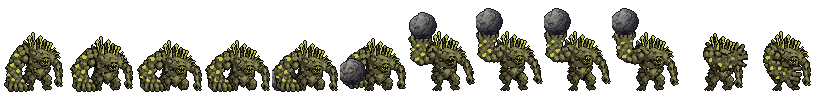
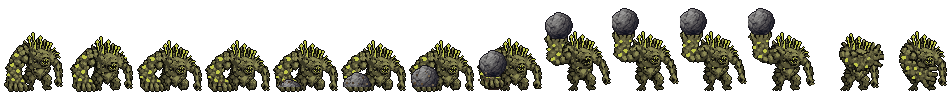
Brute throw: the stone is torn out of the ground (revealed row by row at the ground line), hole and dirt, 14 frames, release on frame 12
Claude-Session: https://claude.ai/code/session_01Jpd5tdDJTR7BVueAYV1KDM

diff --git a/ArtSource/brute_spritecook_export.py b/ArtSource/brute_spritecook_export.py
@@ -4,7 +4,7 @@
 # Then: python3 ArtSource/export_mutant_walk.py blight_brute ArtSource/mutants_anim/brute ; python3 ArtSource/export_mutant_attacks.py
 import os, json
 import numpy as np
-from PIL import Image
+from PIL import Image, ImageDraw
 HERE = os.path.dirname(os.path.abspath(__file__)); SC = os.path.join(HERE, "mutants_anim", "brute_spritecook"); OUT = os.path.join(HERE, "mutants_anim", "brute")
 def load(prefix, n): return [Image.open(os.path.join(SC, f"{prefix}{i}.png")).convert("RGBA") for i in range(n)]
 def lowest(frames): return max(int(np.where(np.array(f)[..., 3].any(1))[0].max()) for f in frames)
@@ -20,34 +20,40 @@ ms = [120, 110, 110, 120, 130, 170, 60, 130, 170, 150, 130, 110]                
 meta = json.load(open(os.path.join(OUT, "brute_attacks.json")))
 meta["blight_brute"]["slam"] = {"frame": [slam[0].width, slam[0].height], "ms": ms, "travel": [0.0] * len(slam)}
 json.dump(meta, open(os.path.join(OUT, "brute_attacks.json"), "w"), indent=1)
-# throw: the SpriteCook pantomime (empty hand) with the rock BAKED into the frames where the big hand is raised (6-9), so it flips with the sprite; 24 empty rows added on top for it. The rock leaves on frame 10.
+# throw: the SpriteCook pantomime (empty hand). The stone is torn OUT OF THE GROUND (Yan: it "just spawns there"): it rises behind the big fist with everything under the ground line cut away, so it is revealed row by
+# row as he pulls; a hole, flung dirt and pebbles at the spot; extra pull frames (base frames 3 and 4 repeated) make it slow and heavy; then it sits on the fist (frame 5) and rides the raised palm (6-9). 24 empty rows on top for the raised stone.
 tp = os.path.join(HERE, "mutants_anim", "brute_spritecook")
 thr = [Image.open(os.path.join(tp, f"throw_frame{i}.png")).convert("RGBA") for i in range(12)]
-PAD = 24; _rs = Image.open(os.path.join(OUT, "fx", "brute_boulder_strip.png")).convert("RGBA"); rock = _rs.crop((0, 0, _rs.width // 6, _rs.height)); HAND = {6: (14, 9), 7: (12, 5), 8: (12, 5), 9: (12, 5)}     # the top of the raised open hand (measured per frame)
+PAD = 24; _rs = Image.open(os.path.join(OUT, "fx", "brute_boulder_strip.png")).convert("RGBA"); rock = _rs.crop((0, 0, _rs.width // 6, _rs.height)); RW, RH = rock.size
+HAND = {6: (14, 9), 7: (12, 5), 8: (12, 5), 9: (12, 5)}                    # the top of the raised open hand, per base frame (measured)
 DIRT = [(96, 74, 50), (70, 56, 42), (120, 104, 80), (62, 58, 54)]
-def debris(g, i, fx, fy):
-    """dirt and pebbles thrown up where the big fist grips the ground (frames 3-5): rising and spreading, in ground colours"""
-    rng = np.random.RandomState(40 + i); n = 4 + 3 * (i - 2)
+FIST = (11, 60); RX = 17; GY = 63 + PAD                                             # where the big fist grips the ground, and the ground line the stone is cut at (frame rows + PAD)
+SEQ = [(0, None), (1, None), (2, None), (3, 0.12), (3, 0.32), (4, 0.55), (4, 0.78), (5, 1.0), (6, None), (7, None), (8, None), (9, None), (10, None), (11, None)]       # (base frame, how far out of the ground)
+msT = [90, 90, 90, 80, 80, 80, 80, 100, 90, 110, 140, 170, 80, 220]; REL = (30, 6 + PAD); CONTACT_POS = 12
+def debris(g, seed, r):
+    rng = np.random.RandomState(60 + seed); n = 5 + int(10 * r)
     for k in range(n):
-        up = (i - 2) * 3.0 + rng.uniform(0, 5); x = int(fx + rng.uniform(-9, 9) * (0.6 + 0.3 * (i - 2))); y = int(fy - up - rng.uniform(0, 4) + PAD); s_ = 1 + int(rng.rand() < 0.4); col = DIRT[k % 4]
-        for dx in range(s_):
-            for dy in range(s_):
+        up = rng.uniform(0, 4 + 14 * r); x = int(RX + rng.uniform(-11, 11) * (0.5 + r)); y = int(GY - 2 - up); sz = 1 + int(rng.rand() < 0.45); col = DIRT[k % 4]
+        for dx in range(sz):
+            for dy in range(sz):
                 if 0 <= x + dx < g.width and 0 <= y + dy < g.height: g.putpixel((x + dx, y + dy), (*col, 255))
-FIST = (11, 60)                                                          # where the big fist grips the ground in frames 3-5 (px in the original frame)
-frames = []
-for i, f in enumerate(thr):
-    g = Image.new("RGBA", (f.width, f.height + PAD), (0, 0, 0, 0)); g.alpha_composite(f, (0, PAD))
-    if i == 4:                                                           # the stone's top shows behind the fist, half buried
-        under = Image.new("RGBA", g.size, (0, 0, 0, 0)); under.alpha_composite(rock, (FIST[0] - rock.width // 2, FIST[1] + PAD - 6 - rock.height // 2)); under.alpha_composite(g); g = under
-    if i == 5: g.alpha_composite(rock, (FIST[0] - rock.width // 2 + 1, FIST[1] + PAD - 12 - rock.height // 2))     # lifted on the fist
-    if i in (3, 4, 5): debris(g, i, *FIST)
-    if i in HAND: hx, hy = HAND[i]; g.alpha_composite(rock, (hx + 1 - rock.width // 2, hy + PAD - 7 - rock.height // 2))
-    frames.append(g)
-low2 = max(int(np.where(np.array(f)[..., 3].any(1))[0].max()) for f in thr) + PAD; frames = [f.crop((0, 0, f.width, low2 + 1)) for f in frames]
+def hole(g):
+    d = ImageDraw.Draw(g); d.ellipse([RX - 9, GY - 2, RX + 9, GY + 2], fill=(46, 36, 28, 255)); d.ellipse([RX - 7, GY - 1, RX + 7, GY + 1], fill=(28, 22, 18, 255))
+frames = []; muz = []
+for pos, (bi, r) in enumerate(SEQ):
+    f = thr[bi]; g = Image.new("RGBA", (f.width, f.height + PAD), (0, 0, 0, 0)); g.alpha_composite(f, (0, PAD))
+    if r is not None:
+        under = Image.new("RGBA", g.size, (0, 0, 0, 0)); hole(under)
+        top = int((GY - 1) + (1.0 - r) * (RH + 4) - RH) - (8 if r >= 1.0 else 0)                                   # top row of the stone: from fully under the ground (r 0) up to lifted clear of it (r 1)
+        layer = Image.new("RGBA", g.size, (0, 0, 0, 0)); layer.alpha_composite(rock, (RX - RW // 2, top))
+        if r < 1.0: la = np.array(layer); la[GY:, :, 3] = 0; layer = Image.fromarray(la)                              # everything under the ground line is cut: the stone is revealed row by row as it rises
+        under.alpha_composite(g); under.alpha_composite(layer); g = under                                           # hole under him, the stone in front
+        debris(g, pos, r)
+    if bi in HAND: hx, hy = HAND[bi]; g.alpha_composite(rock, (hx + 1 - RW // 2, hy + PAD - 7 - RH // 2))
+    frames.append(g); muz.append(list((HAND[bi][0] + 1, HAND[bi][1] + PAD - 7)) if bi in HAND else list(REL) if bi >= 10 else [FIST[0], GY])
+low2 = max(int(np.where(np.array(f)[..., 3].any(1))[0].max()) for f in frames); frames = [f.crop((0, 0, f.width, low2 + 1)) for f in frames]
 strip(frames, os.path.join(OUT, "blight_brute_throw_strip.png"))
-msT = [90, 90, 90, 90, 90, 100, 90, 110, 140, 170, 80, 220]; REL = (30, 6 + PAD)                       # the rock leaves from above the head, in front of the raised arm
-muz = [list(HAND.get(i, (32, 20 + PAD)) if i not in HAND else (HAND[i][0] + 1, HAND[i][1] + PAD - 7)) for i in range(12)]; muz[10] = list(REL); muz[11] = list(REL)
-meta["blight_brute"]["throw"] = {"frame": [frames[0].width, frames[0].height], "ms": msT, "travel": [0.0] * 12, "muzzle": muz}
+meta["blight_brute"]["throw"] = {"frame": [frames[0].width, frames[0].height], "ms": msT, "travel": [0.0] * len(frames), "muzzle": muz}
 json.dump(meta, open(os.path.join(OUT, "brute_attacks.json"), "w"), indent=1)
-print("throw", frames[0].size, "contact ms", sum(msT[:10]), "total", sum(msT))
+print("throw", frames[0].size, len(frames), "frames, contact ms", sum(msT[:CONTACT_POS]), "total", sum(msT))
 print("walk", walk[0].size, "slam", slam[0].size, "lowest", low, "contact ms", sum(ms[:6]), "total", sum(ms))

diff --git a/Assets/Scripts/GameData/MutantAttackData.cs b/Assets/Scripts/GameData/MutantAttackData.cs
@@ -36,7 +36,7 @@ namespace GameData
             {
                 ["slam"] = new AttackAnim { Frames = 12, W = 68, H = 68, Contact = 6, ContactMs = 760, TotalMs = 1510, PivotY = 0.23529f, Ms = new[] { 120, 110, 110, 120, 130, 170, 60, 130, 170, 150, 130, 110 }, Travel = new[] { 0.0f, 0.0f, 0.0f, 0.0f, 0.0f, 0.0f, 0.0f, 0.0f, 0.0f, 0.0f, 0.0f, 0.0f } },
                 ["swipe"] = new AttackAnim { Frames = 8, W = 108, H = 88, Contact = 4, ContactMs = 480, TotalMs = 1000, PivotY = 0.18182f, Ms = new[] { 100, 280, 50, 50, 70, 130, 100, 220 }, Travel = new[] { 0.0f, 0.0f, 0.0f, 0.0f, 0.0f, 0.0f, 0.0f, 0.0f } },
-                ["throw"] = new AttackAnim { Frames = 12, W = 68, H = 92, Contact = 10, ContactMs = 1060, TotalMs = 1360, PivotY = 0.17391f, Ms = new[] { 90, 90, 90, 90, 90, 100, 90, 110, 140, 170, 80, 220 }, Travel = new[] { 0.0f, 0.0f, 0.0f, 0.0f, 0.0f, 0.0f, 0.0f, 0.0f, 0.0f, 0.0f, 0.0f, 0.0f }, MuzzleX = new[] { 32, 32, 32, 32, 32, 32, 15, 13, 13, 13, 30, 30 }, MuzzleY = new[] { 44, 44, 44, 44, 44, 44, 26, 22, 22, 22, 30, 30 } },
+                ["throw"] = new AttackAnim { Frames = 14, W = 68, H = 92, Contact = 12, ContactMs = 1200, TotalMs = 1500, PivotY = 0.17391f, Ms = new[] { 90, 90, 90, 80, 80, 80, 80, 100, 90, 110, 140, 170, 80, 220 }, Travel = new[] { 0.0f, 0.0f, 0.0f, 0.0f, 0.0f, 0.0f, 0.0f, 0.0f, 0.0f, 0.0f, 0.0f, 0.0f, 0.0f, 0.0f }, MuzzleX = new[] { 11, 11, 11, 11, 11, 11, 11, 11, 15, 13, 13, 13, 30, 30 }, MuzzleY = new[] { 87, 87, 87, 87, 87, 87, 87, 87, 26, 22, 22, 22, 30, 30 } },
             },
         };
     }

diff --git a/Tools/compile_check/test/Program.cs b/Tools/compile_check/test/Program.cs
@@ -2230,7 +2230,7 @@ static class Program {
     nb = MutantAttack.NetState(hostB, UnityEngine.Time.time); var mirB = new Mutant("BlightBrute", hostB.X, hostB.Y, MutantDatabase.Get("tier4", "BlightBrute")); EncounterState.Enemies.Add(mirB);
     MutantAttack.Mirror(mirB, nb.code, nb.t20 * 0.02f, nb.d1, nb.d2, UnityEngine.Time.time);
     Check(nb.code == 6 && MutantAttack.KindOf(mirB) == "slam", $"co-op: a client's mirror plays the Brute's slam (code {nb.code})");
-    var bt = GameData.MutantAttackData.Table["Blight Brute"]["throw"]; Check(bt.MuzzleX != null && bt.MuzzleX.Length == bt.Frames && bt.Contact == 10, "Blight Brute: the throw carries a release point per frame and releases on frame 10");
+    var bt = GameData.MutantAttackData.Table["Blight Brute"]["throw"]; Check(bt.MuzzleX != null && bt.MuzzleX.Length == bt.Frames && bt.Contact == 12, "Blight Brute: the throw carries a release point per frame and releases on frame 12");
     p.HealPermanent(5000); EncounterState.Enemies.Clear(); MutantAttack.Reset(); Rt.Reset(); p.X = px; p.Y = py;
     var fL = new Mutant("BlightBrute", px + 6, py, MutantDatabase.Get("tier4", "BlightBrute")); var fR = new Mutant("BlightBrute", px - 6, py, MutantDatabase.Get("tier4", "BlightBrute")); EncounterState.Enemies.Add(fL); EncounterState.Enemies.Add(fR); Rt.SetOffset(fL, 0f, 0f); Rt.SetOffset(fR, 0f, 0f); float nsL = 0f, nsR = 0f; float rxL = 0f, rxR = 0f; bool leftFaced = false, rightFaced = false;
     for (int i = 0; i < 1100; i++) {

diff --git a/ArtSource/export_mutant_attacks.py b/ArtSource/export_mutant_attacks.py
@@ -5,7 +5,7 @@ import json, os, shutil, numpy as np
 from PIL import Image
 HERE = os.path.dirname(os.path.abspath(__file__)); OUT = os.path.join(HERE, "..", "Assets", "Resources", "Sprites", "Mutants", "anim"); os.makedirs(OUT, exist_ok=True)
 SETS = {"veil_prowler": "veil_attacks", "pallid_prowler": "pallid_attacks", "dread_prowler": "dread_attacks", "blind_maw": "maw_attacks", "blight_brute": "brute"}
-CONTACT = {"veil_prowler": {"bite": 5, "bite2": 7, "pounce": 8}, "pallid_prowler": {"bite": 5, "bite2": 7}, "blind_maw": {"bite": 5, "bite2": 7, "pounce": 8}, "dread_prowler": {"bite": 5, "bite2": 5, "pounce": 8}, "blight_brute": {"slam": 6, "swipe": 4, "throw": 10}}
+CONTACT = {"veil_prowler": {"bite": 5, "bite2": 7, "pounce": 8}, "pallid_prowler": {"bite": 5, "bite2": 7}, "blind_maw": {"bite": 5, "bite2": 7, "pounce": 8}, "dread_prowler": {"bite": 5, "bite2": 5, "pounce": 8}, "blight_brute": {"slam": 6, "swipe": 4, "throw": 12}}
 table = {}
 for key, folder in SETS.items():
     d = os.path.join(HERE, "mutants_anim", folder); js = json.load(open(os.path.join(d, [f for f in os.listdir(d) if f.endswith(".json") and "attacks" in f][0])))[key]

diff --git a/ArtSource/WORK_LOG.md b/ArtSource/WORK_LOG.md
@@ -5888,3 +5888,4 @@ First test: the new Brute idle (`brute_poses/idle.png`, 59x60) imported at nativ
 **Boulder bigger (2026-11-13).** Yan: "the rock is too small, reads as a pebble, we need a boulder, at least 50% bigger". `brute_build.py`: the rock is now 26 px (was 16, +62 %): a lumpy faceted boulder in the Brute's olive/dark green with cracks and yellow flecks, 6 tumbling frames; the shatter (60x40, was 36x24) has bigger chunks, a dust burst and a ground shockwave ring (the view's pivot for it is now 8/40). The held rock in frames 6-9 is the same 26 px boulder, 24 empty rows on top of the throw strip (68x92), release point and contact (frame 10, 1060 ms) unchanged. Rebuild order: `brute_build.py` then `brute_spritecook_export.py` then the two exporters. NOT checked in Unity: how big 26 px reads on the real map.
 **Boulder redrawn as ground stone (2026-11-13).** Yan: "boulder looks like a fidget spinner and seems like it came from the brute itself not the ground". The old rock was a 3-lobed blob in the Brute's own olive with yellow flecks. Now (`brute_build.py rock_frames`): an irregular 9-corner polygon (flat faces, no lobes), grey-brown stone in three flat tones lit from the upper left, dark cracks that turn with it, dirt clinging to the underside, no yellow; the shatter chunks are the same stone, the dust tan. The throw strip now shows it COMING OUT OF THE GROUND (`brute_spritecook_export.py`): dirt and pebbles thrown up at the big fist's grip (frames 3-5), the stone's top behind the fist (4), lifted on the fist (5), then on the raised palm (6-9). Not checked in Unity.
 **Boulder from Yan's generated image (2026-11-13).** Yan sent his own generated boulder (`ArtSource/refs/brute/boulder_yan.jpg`, a round grey stone with cracks and dirt, checkerboard baked in). `ArtSource/boulder_recover.py`: masks the rock (the checker is grey 139/203 like the stone, so the mask comes from the connected opened foreground), then an area-weighted downscale to 28x27 game pixels with a 1 px dark outline and 14 colours (a first try that sampled the ~17 px block grid and halved it by 2x2 majority came out far too dark, rejected). `brute_build.py` uses it as the rock strip (the same image 6 times, padded square; `CombatFxView.Acid.cs` now spins it in flight at 540 deg/s), the held rock in frames 6-9 and on the fist in frame 6 is the same stone, the shatter chunks use its greys. The old procedural rocks are kept in `rock_frames()` unused. Harness `dungeons` passes; not run in Unity (the spin of a point-filtered sprite on the real map is unchecked).
+**Boulder rips out of the ground (2026-11-13).** Yan: "the boulder kinda just spawns there, can we make it so it seems like he rips it out of the ground? maybe slice it in lines and have them load as he pulls from the ground". `brute_spritecook_export.py`: the stone rises in front of the big fist with everything under the ground line cut away (so it is revealed row by row as it comes up: 12 %, 32 %, 55 %, 78 %, then lifted clear on the fist), with a dark hole under it and dirt and pebbles flung up (more as it rises); the grab has 2 extra frames (SpriteCook frames 3 and 4 repeated) so the pull is slower; then it rides the raised palm. The throw strip is now 14 frames (68x92), 1500 ms total, the rock leaves on frame 12 (1200 ms); harness check updated. The first try drew the rising stone behind the fist and body: invisible, replaced. Not run in Unity.
